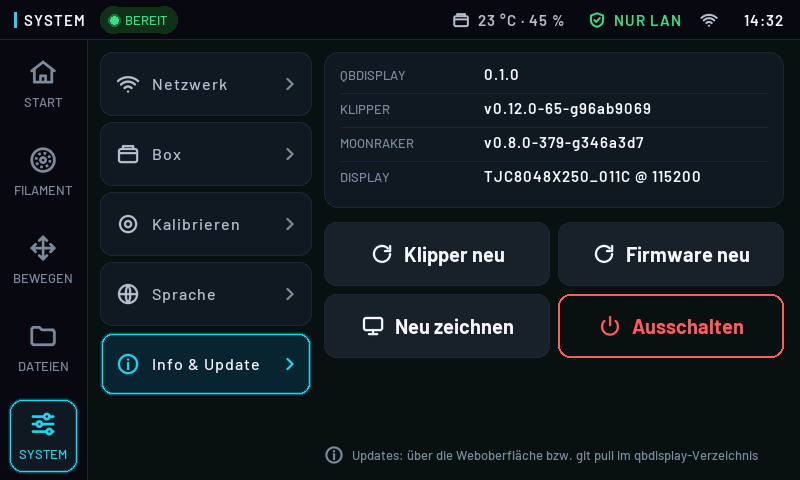
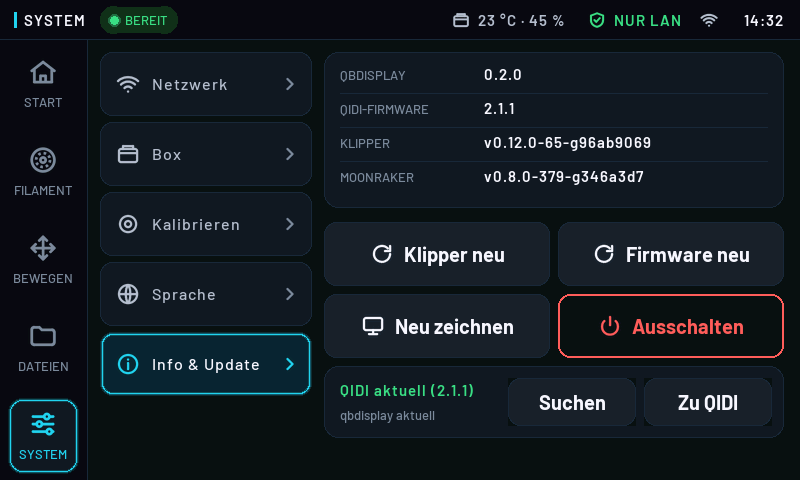
qbdisplay 0.2.0: update check and switch to the QIDI UI from the display

diff --git a/qbdisplay/updates.py b/qbdisplay/updates.py
@@ -1,0 +1,136 @@
+# qbdisplay – Versionen und Update-Prüfung
+#
+# Copyright (C) 2026  STRE
+#
+# This program is free software: you can redistribute it and/or modify
+# it under the terms of the GNU General Public License as published by
+# the Free Software Foundation, either version 3 of the License, or
+# (at your option) any later version. See <https://www.gnu.org/licenses/>.
+"""Installierte QIDI-Firmware lesen und nach neueren Versionen suchen.
+
+QIDI-Firmware: zuerst wie QIDIs Display-Programm über die Versionsdatei auf QIDIs
+Download-Server, sonst über die Releases von QIDITECH/QIDI_PLUS4 auf GitHub.
+qbdisplay: Releases des eigenen GitHub-Repositorys. Nur lesende HTTP-GETs; installiert
+wird nichts. Für Root-Aktionen gibt es genau ein Hilfsskript (``HELPER``), das
+install.sh per sudoers-Regel ohne Passwort freigibt.
+"""
+
+import json
+import logging
+import re
+import subprocess
+import urllib.request
+
+log = logging.getLogger(__name__)
+
+HELPER = '/usr/local/sbin/qbdisplay-helper'
+QIDI_VERSION_URLS = (
+    'https://download_aws.qidi3dprinter.com/QD_Plus4/version',
+    'https://download_aliyun.qidi3dprinter.com/QD_Plus4/version',
+)
+QIDI_GITHUB = 'QIDITECH/QIDI_PLUS4'
+TIMEOUT = 8
+
+_VER = re.compile(r'(\d+)\.(\d+)\.(\d+)')
+
+
+def parse_version(text):
+    """'V2.1.1', 'Plus4_v2.1.1', 'v0.2.0' -> (2, 1, 1); sonst None."""
+    m = _VER.search(str(text or ''))
+    return tuple(int(x) for x in m.groups()) if m else None
+
+
+def fmt(ver):
+    return '.'.join(str(x) for x in ver) if ver else '–'
+
+
+def newer(remote, local):
+    return bool(remote and local and remote > local)
+
+
+def parse_ini(text):
+    """[version]-Abschnitt von /root/xindi/version -> {'soc': 'V2.1.1', ...}"""
+    out = {}
+    for line in str(text or '').splitlines():
+        if '=' in line:
+            k, v = line.split('=', 1)
+            out[k.strip().lower()] = v.strip()
+    return out
+
+
+def helper(*args, timeout=15):
+    """Hilfsskript über sudo -n; liefert (ok, ausgabe)."""
+    try:
+        res = subprocess.run(['sudo', '-n', HELPER] + list(args), stdout=subprocess.PIPE,
+                             stderr=subprocess.STDOUT, timeout=timeout)
+    except (OSError, subprocess.SubprocessError) as e:
+        return False, str(e)
+    return res.returncode == 0, res.stdout.decode('utf-8', 'replace')
+
+
+def local_qidi():
+    """{'soc': 'V2.1.1', 'ui': 'V211', 'mcu': ...} oder {} ohne Rechte/Datei."""
+    ok, out = helper('version')
+    return parse_ini(out) if ok else {}
+
+
+def _get(url, accept='application/json'):
+    req = urllib.request.Request(url, headers={'Accept': accept, 'User-Agent': 'qbdisplay',
+                                               'Cache-Control': 'no-cache'})
+    with urllib.request.urlopen(req, timeout=TIMEOUT) as r:
+        return r.read().decode('utf-8', 'replace')
+
+
+def remote_qidi():
+    """(version, quelle) der neuesten QIDI-Firmware oder (None, fehlertext)."""
+    for url in QIDI_VERSION_URLS:
+        try:
+            text = _get(url, 'text/plain')
+        except Exception as e:   # noqa: Server oft nicht erreichbar
+            log.info('QIDI-Versionsserver %s: %s', url, e)
+            continue
+        ini = parse_ini(text)
+        ver = parse_version(ini.get('soc') or text)
+        if ver:
+            return ver, 'QIDI'
+    try:
+        data = json.loads(_get('https://api.github.com/repos/%s/releases/latest' % QIDI_GITHUB))
+        ver = parse_version(data.get('tag_name'))
+        if ver:
+            return ver, 'GitHub'
+    except Exception as e:   # noqa: kein Netz
+        log.info('QIDI-Releases auf GitHub: %s', e)
+        return None, str(e)
+    return None, 'keine Version gefunden'
+
+
+def remote_self(repo):
+    """Neueste qbdisplay-Version aus den GitHub-Releases von ``repo`` oder None."""
+    if not repo:
+        return None
+    try:
+        data = json.loads(_get('https://api.github.com/repos/%s/releases/latest' % repo))
+        return parse_version(data.get('tag_name'))
+    except Exception as e:   # noqa: kein Netz
+        log.info('qbdisplay-Releases auf GitHub: %s', e)
+        return None
+
+
+def check(repo, own_version):
+    """Komplette Prüfung (läuft in einem eigenen Thread). -> dict für die Anzeige."""
+    local = local_qidi()
+    lver = parse_version(local.get('soc'))
+    rver, source = remote_qidi()
+    sver = remote_self(repo)
+    own = parse_version(own_version)
+    return {
+        'qidi_local': lver, 'qidi_remote': rver, 'qidi_source': source,
+        'qidi_newer': newer(rver, lver),
+        'self_local': own, 'self_remote': sver, 'self_newer': newer(sver, own),
+        'helper': bool(local),
+    }
+
+
+def switch_to_qidi():
+    """Wechsel zur QIDI-Oberfläche anstoßen. -> (ok, meldung)"""
+    return helper('to-qidi', timeout=20)

diff --git a/qbdisplay/ui/system.py b/qbdisplay/ui/system.py
@@ -11,6 +11,7 @@
 from .. import __version__
 from .. import fonts as F
 from .. import i18n
+from .. import updates
 from ..i18n import _, N_
 from ..canvas import Rect
 from . import widgets as W
@@ -204,9 +205,13 @@ class SystemPage(Page):
     def build_info(self, frame):
         ctx = self.ctx
         vers = ctx.versions
-        lines = [('qbdisplay', __version__), ('Klipper', vers.get('klipper', '–')),
-                 ('Moonraker', vers.get('moonraker', '–')),
-                 ('Display', vers.get('display', '–'))]
+        upd = ctx.update_info
+        if not upd:
+            ctx.check_updates()      # einmal je Programmstart automatisch
+        qidi = updates.fmt(upd.get('qidi_local')) if upd.get('qidi_local') else '–'
+        lines = [('qbdisplay', __version__), ('QIDI-Firmware', qidi),
+                 ('Klipper', vers.get('klipper', '–')),
+                 ('Moonraker', vers.get('moonraker', '–'))]
         rect = Rect(AREA.x, 52, AREA.w, 156)
 
         def paint(c, r):
@@ -238,8 +243,52 @@ class SystemPage(Page):
             if not dis:
                 frame.target(tid, rr, act)
 
-        def paint_note(c, r):
-            c.icon('info', r.x, r.y - 1, 20, 'text3', 'bg')
-            c.text(r.x + 28, r.y, r.w - 28, 18, _('Updates: über die Weboberfläche bzw. git pull '
-                                                  'im qbdisplay-Verzeichnis'), F.CAP, 'text3', 'bg')
-        frame.region('note', Rect(AREA.x, 446, AREA.w, 20), 0, paint_note)
+        self._update_tile(frame, busy)
+
+    def _update_tile(self, frame, busy):
+        """Update-Stand: QIDI-Firmware und qbdisplay, Knöpfe Suchen / Zu QIDI wechseln."""
+        ctx = self.ctx
+        upd = ctx.update_info
+        state = upd.get('state')
+        if state == 'checking' or not state:
+            l1, l2, tone = _('Suche nach Updates ...'), '', 'text2'
+        elif state == 'error':
+            l1, l2, tone = _('Update-Prüfung fehlgeschlagen'), upd.get('error', '')[:60], 'warn'
+        else:
+            if upd.get('qidi_newer'):
+                l1 = _('QIDI-Update: %s') % updates.fmt(upd.get('qidi_remote'))
+                tone = 'warn'
+            elif upd.get('qidi_remote'):
+                l1 = _('QIDI aktuell (%s)') % updates.fmt(upd.get('qidi_remote'))
+                tone = 'ok'
+            else:
+                l1, tone = _('QIDI-Server offline'), 'text2'
+            if upd.get('self_newer'):
+                l2 = _('qbdisplay %s verfügbar (GitHub)') % updates.fmt(upd.get('self_remote'))
+            elif upd.get('self_remote'):
+                l2 = _('qbdisplay aktuell')
+            else:
+                l2 = ''
+        rect = Rect(AREA.x, 366, AREA.w, 72)
+        bw = 128
+        r_search = Rect(rect.x + rect.w - 2 * bw - 20, rect.y + 12, bw, 48)
+        r_qidi = Rect(rect.x + rect.w - bw - 12, rect.y + 12, bw, 48)
+
+        def paint(c, r):
+            W.tile(c, r)
+            tw = r_search.x - r.x - 28
+            c.text(r.x + 16, r.y + 14, tw, 20, l1, F.LBL, tone, 'surface')
+            if l2:
+                c.text(r.x + 16, r.y + 40, tw, 18, l2, F.CAP, 'text3', 'surface')
+        frame.region('upd', rect, (l1, l2, tone), paint)
+        for tid, label, act, rr in (('u.search', _('Suchen'), ctx.check_updates, r_search),
+                                    ('u.qidi', _('Zu QIDI'), ctx.confirm_switch_qidi, r_qidi)):
+            dis = (busy and tid == 'u.qidi') or state == 'checking'
+            pr = ctx.pressed == tid
+            kind = 'disabled' if dis else 'secondary'
+
+            def paint_b(c, r, label=label, kind=kind, pr=pr):
+                W.button(c, r, label, kind, None, 'surface', pressed=pr)
+            frame.region('b.' + tid, rr, (label, kind, pr), paint_b)
+            if not dis:
+                frame.target(tid, rr, act)

diff --git a/qbdisplay/app.py b/qbdisplay/app.py
@@ -26,6 +26,7 @@ from . import i18n
 from . import model
 from . import netinfo
 from . import qidi
+from . import updates
 from . import thumbs
 from .canvas import Canvas
 from .i18n import _
@@ -101,6 +102,7 @@ class App(object):
         self.connected = rpc is None
         self.server_info = {}
         self.versions = {}
+        self.update_info = {}
         self.page_name = 'home'
         self.pages = {}
         self.dialog = None
@@ -816,6 +818,41 @@ class App(object):
                 self.mark_dirty()
         self.rpc.call('printer.info', None, pinfo)
 
+    # --- Updates ----------------------------------------------------------------
+    def check_updates(self):
+        """Versionen prüfen (im Hintergrund, nur lesende Abfragen)."""
+        if self.update_info.get('state') == 'checking':
+            return
+        self.update_info = {'state': 'checking'}
+        self.mark_dirty()
+        repo = self.cfg.get('update', 'repo').strip()
+
+        def run():
+            try:
+                res = updates.check(repo, __version__)
+                res['state'] = 'done'
+            except Exception as e:   # noqa: nur Anzeige
+                log.exception('Update-Prüfung')
+                res = {'state': 'error', 'error': str(e)}
+            self.events.put(('updates', res))
+        t = threading.Thread(target=run, name='updates')
+        t.daemon = True
+        t.start()
+
+    def confirm_switch_qidi(self):
+        def go_qidi():
+            ok, out = updates.switch_to_qidi()
+            if ok:
+                self.notify(_('Wechsel zur QIDI-Oberfläche läuft (ca. 7 min)'), 'ok', 10.0)
+            else:
+                log.warning('Wechsel zu QIDI: %s', out)
+                self.notify(_('Wechsel nicht möglich - install.sh erneut ausführen'), 'err', 8.0)
+        self.confirm(_('Zur QIDI-Oberfläche wechseln?'),
+                     _('qbdisplay wird beendet und die QIDI-Oberfläche aufgespielt (ca. 7 min, '
+                       'Display solange dunkel). Danach sind QIDI-Updates und die QIDI-App '
+                       'wieder verfügbar. qbdisplay später per ./install.sh zurückholen.'),
+                     _('Wechseln'), go_qidi, danger=False, ok_icon='retry')
+
     def refresh_net(self):
         comps = self.server_info.get('components') or []
         try:
@@ -866,6 +903,9 @@ class App(object):
             state = self.server_info.get('klippy_state')
             if state and state != 'ready':
                 self.st.update({'webhooks': {'state': state}})
+            self.mark_dirty()
+        elif kind == 'updates':
+            self.update_info = data or {}
             self.mark_dirty()
         elif kind == 'klippy_state':
             self.st.update({'webhooks': {'state': data or 'startup'}})

diff --git a/qbdisplay/i18n.py b/qbdisplay/i18n.py
@@ -323,8 +323,26 @@ EN = {
     'Firmware neu': 'Restart firmware',
     'Neu zeichnen': 'Redraw',
     'Ausschalten': 'Shut down',
-    'Updates: über die Weboberfläche bzw. git pull im qbdisplay-Verzeichnis':
-        'Updates: via the web UI or git pull in the qbdisplay folder',
+    'Suche nach Updates ...': 'Checking for updates ...',
+    'Update-Prüfung fehlgeschlagen': 'Update check failed',
+    'QIDI-Update: %s': 'QIDI update: %s',
+    'QIDI aktuell (%s)': 'QIDI current (%s)',
+    'QIDI-Server offline': 'QIDI server offline',
+    'qbdisplay %s verfügbar (GitHub)': 'qbdisplay %s available (GitHub)',
+    'qbdisplay aktuell': 'qbdisplay up to date',
+    'Suchen': 'Check',
+    'Zu QIDI': 'To QIDI',
+    'Zur QIDI-Oberfläche wechseln?': 'Switch to the QIDI UI?',
+    'qbdisplay wird beendet und die QIDI-Oberfläche aufgespielt (ca. 7 min, Display solange '
+    'dunkel). Danach sind QIDI-Updates und die QIDI-App wieder verfügbar. qbdisplay später per '
+    './install.sh zurückholen.':
+        'qbdisplay stops and the QIDI UI is flashed (about 7 min, screen stays dark). QIDI '
+        'updates and the QIDI app are then available again. Bring qbdisplay back later with '
+        './install.sh.',
+    'Wechseln': 'Switch',
+    'Wechsel zur QIDI-Oberfläche läuft (ca. 7 min)': 'Switching to the QIDI UI (about 7 min)',
+    'Wechsel nicht möglich - install.sh erneut ausführen':
+        'Switch not possible - run install.sh again',
 
     # --- Dialoge ------------------------------------------------------------------
     'Bitte bestätigen': 'Please confirm',

diff --git a/tools/make_release.py b/tools/make_release.py
@@ -27,8 +27,9 @@ sys.path.insert(0, ROOT)
 
 from qbdisplay import __version__  # noqa: E402
 
-FILES = ['install.sh', 'uninstall.sh', 'qbdisplay.example.cfg', 'LICENSE', 'systemd/qbdisplay.service']
-EXEC = {'install.sh', 'uninstall.sh'}
+FILES = ['install.sh', 'uninstall.sh', 'qbdisplay.example.cfg', 'LICENSE', 'systemd/qbdisplay.service',
+         'systemd/qbdisplay-helper']
+EXEC = {'install.sh', 'uninstall.sh', 'systemd/qbdisplay-helper'}
 
 
 def add_bytes(tar, name, data, mode=0o644):
@@ -54,7 +55,7 @@ def main():
                 print('fehlt (übersprungen):', rel)
                 continue
             data = open(src, 'rb').read()
-            if rel.endswith(('.sh', '.cfg', '.service')):
+            if rel.endswith(('.sh', '.cfg', '.service', '-helper')):
                 data = data.replace(b'\r\n', b'\n')
             add_bytes(tar, '%s/%s' % (base, rel), data, 0o755 if rel in EXEC else 0o644)
         for dirpath, dirnames, filenames in os.walk(os.path.join(ROOT, 'qbdisplay')):

diff --git a/tools/scenarios.py b/tools/scenarios.py
@@ -250,6 +250,10 @@ def s_system_box(app):
 
 
 def s_system_info(app):
+    # feste Werte statt echter Netzabfrage
+    app.update_info = {'state': 'done', 'qidi_local': (2, 1, 1), 'qidi_remote': (2, 1, 1),
+                       'qidi_source': 'GitHub', 'qidi_newer': False, 'self_local': (0, 2, 0),
+                       'self_remote': (0, 2, 0), 'self_newer': False, 'helper': True}
     app.go('system', sys_sub='info')
 
 

diff --git a/qbdisplay/config.py b/qbdisplay/config.py
@@ -87,6 +87,10 @@ DEFAULTS = {
         'lan_only_on_cmd': '',
         'lan_only_off_cmd': '',
     },
+    'update': {
+        # GitHub-Repository, in dem nach neuen qbdisplay-Versionen gesucht wird (leer = aus)
+        'repo': 'CharlyBrownFR/qbdisplay-plus4',
+    },
     'state': {
         'file': '~/printer_data/qbdisplay_state.json',
     },

diff --git a/qbdisplay/__init__.py b/qbdisplay/__init__.py
@@ -29,4 +29,4 @@ Muss mit Python 3.7 (Debian 10 auf dem Drucker) laufen, nur Standardbibliothek
 (+ optional pyserial).
 """
 
-__version__ = "0.1.0"
+__version__ = "0.2.0"

diff --git a/README.md b/README.md
@@ -47,8 +47,9 @@ Spielt die gesicherte QIDI-Display-Datei wieder auf (ca. 7 min) und startet QIDI
 
 ## Gut zu wissen
 
-- **Updates von QIDI:** Online-/USB-Updates laufen über QIDIs Display-Programm. Vorher
-  `./uninstall.sh`, dann updaten, danach wieder `./install.sh`.
+- **Updates:** Unter System → Info & Update sucht „Suchen“ nach neuen Versionen der QIDI-Firmware
+  und von qbdisplay. QIDI-Updates selbst laufen über QIDIs Oberfläche: „Zu QIDI“ wechselt direkt am
+  Display zurück (ca. 7 min), dann wie gewohnt updaten, danach wieder `./install.sh`.
 - **QIDI-Cloud/App:** entfallen mit qbdisplay (QIDI Studio im LAN funktioniert weiter).
 - **Nach Stromausfall** fragt qbdisplay (noch) nicht nach dem Fortsetzen des Drucks.
 - Inoffizielles Projekt, nicht von QIDI. Nutzung auf eigene Gefahr.
@@ -107,7 +108,9 @@ cd ~/qbdisplay && ./uninstall.sh
 
 ## Good to know
 
-- **QIDI updates** run through QIDI's display program: `./uninstall.sh`, update, `./install.sh`.
+- **Updates:** System → Info & Update → "Check" looks for new QIDI firmware and qbdisplay versions.
+  QIDI updates run through QIDI's UI: "To QIDI" switches back right on the display (about 7 min),
+  update as usual, then run `./install.sh` again.
 - **QIDI cloud/app** are not available with qbdisplay (QIDI Studio on the LAN keeps working).
 - **After a power loss** qbdisplay does not (yet) offer to resume the print.
 - Unofficial project, not affiliated with QIDI. Use at your own risk.
